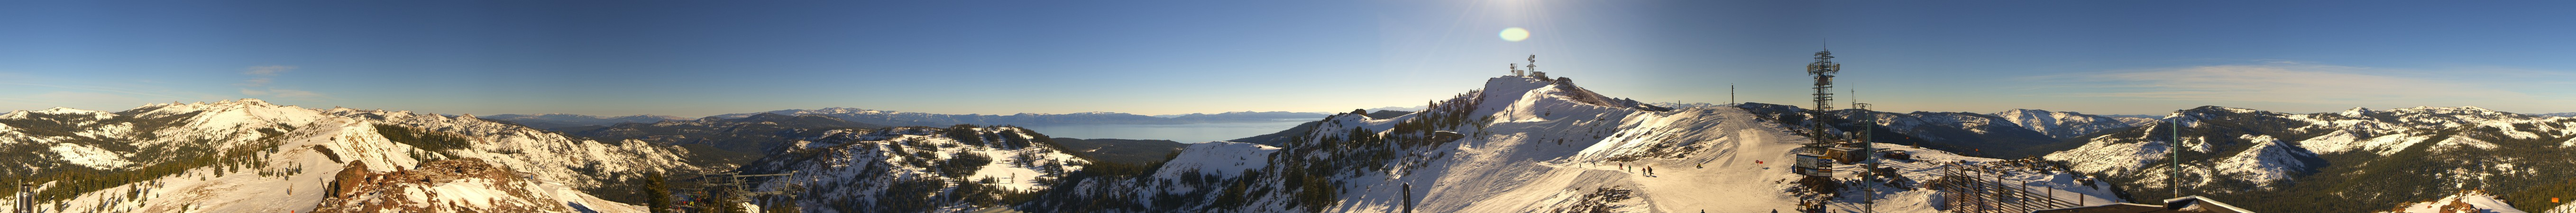
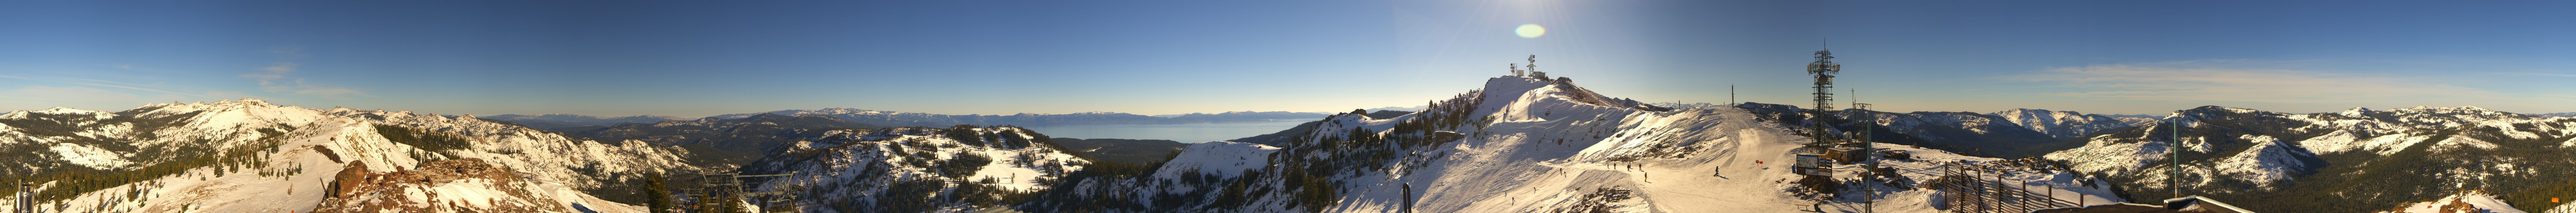
bug fixes and add gitignore

diff --git a/tahoe/index.html b/tahoe/index.html
@@ -1,17 +1,20 @@
-<!DOCTYPE html>
+<!DOCTYPEhtml>
+<!-- <html manifest=".appcache"> -->
 <html>
- <head>
-  <meta charset="utf-8"/>
-  <title>
-   Squaw&amp;Alpine;
-  </title>
-  <meta content="yes" name="apple-mobile-web-app-capable"/>
-  <meta content="transparent" name="apple-mobile-web-app-status-bar-style"/>
-  <link href="favicons/apple-touch-icon-76x76.png" rel="apple-touch-icon-precomposed" sizes="76x76"/>
-  <link href="favicons/apple-touch-icon-180x180.png" rel="apple-touch-icon-precomposed" sizes="120x120"/>
-  <link href="favicons/apple-touch-icon-152x152.png" rel="apple-touch-icon-precomposed" sizes="152x152"/>
-  <style media="screen">
-   iframe {
+
+<head>
+    <metacharset="utf-8" />
+
+    <title>Squaw &amp; Alpine</title>
+
+    <meta content="yes" name="apple-mobile-web-app-capable" />
+    <meta content="transparent" name="apple-mobile-web-app-status-bar-style" />
+    <link href="favicons/apple-touch-icon-76x76.png" rel="apple-touch-icon-precomposed" sizes="76x76" />
+    <link href="favicons/apple-touch-icon-180x180.png" rel="apple-touch-icon-precomposed" sizes="120x120" />
+    <link href="favicons/apple-touch-icon-152x152.png" rel="apple-touch-icon-precomposed" sizes="152x152" />
+
+    <style media="screen">
+        iframe {
             border: none;
             width: 100%;
             height: 500px;
@@ -27,54 +30,44 @@
             font-size: 40pt;
             border-color: black;
         }
-  </style>
- </head>
- <body>
-  <div id="weather">
-  </div>
-  <div id="photos">
-   <h2>
-    Squaw 360
-   </h2>
-   <div class="rotate-image-wrapper">
-    <img class="rotate-image" src="img/squaw360.jpg"/>
-   </div>
-   <h2>
-    Alpine 360
-   </h2>
-   <div class="rotate-image-wrapper">
-    <img class="rotate-image" src="img/alpine360.jpg"/>
-   </div>
-   <h2>
-    Squaw High
-   </h2>
-   <img src="img/squawHigh.jpg" style="width: 100%"/>
-   <h2>
-    Squaw Base
-   </h2>
-   <img src="img/squawBase.jpg" style="width: 100%"/>
-   <h2>
-    Alpine Base
-   </h2>
-   <img src="img/alpineBase.jpg" style="width: 100%"/>
-  </div>
-  <div id="lifts">
-    <h2>
-     Squaw
-    </h2>
-    <img src="img/squawMap.jpg" style="width: 100%"/>
-    <h2>
-     Alpine
-    </h2>
-    <img src="img/alpineMap.jpg" style="width: 100%"/>
-   </img>
-  </div>
-  <script src="jquery.min.js">
-  </script>
-  <script>
-   function loadIframe(self, map) {
+    </style>
+</head>
+
+<body>
+    <div id="lifts">
+        <!-- TODO: add lifts status -->
+        <h2>Squaw</h2>
+        <img src="img/squawMap.jpg" style="width:100%" />
+        <h2>Alpine</h2>
+        <img src="img/alpineMap.jpg" style="width:100%" />
+    </div>
+
+    <div id="photos">
+        <h2>Squaw 360</h2>
+        <div class="rotate-image-wrapper">
+            <img class="rotate-image" src="img/squaw360.jpg" />
+        </div>
+
+        <h2>Alpine 360</h2>
+        <div class="rotate-image-wrapper">
+            <img class="rotate-image" src="img/alpine360.jpg" />
+        </div>
+
+        <h2>Squaw High</h2>
+        <img src="img/squawHigh.jpg" style="width:100%" />
+        <h2>Squaw Base</h2>
+        <img src="img/squawBase.jpg" style="width:100%" />
+        <h2>Alpine Base</h2>
+        <img src="img/alpineBase.jpg" style="width:100%" />
+    </div>
+    
+    
+    <script src="jquery.min.js"></script>
+    <script>
+        function loadIframe(self, map) {
             $.get(map, res => $(self).after(res));
         }
-  </script>
- </body>
+    </script>
+</body>
+
 </html>

diff --git a/tahoe/main.py b/tahoe/main.py
@@ -72,18 +72,18 @@ def savePhoto(camera, name):
     hourMinute = photoSoup.find('table').contents[-4].contents[1].contents[0].string
     
     # save photo
-    urllib.urlretrieve('http://images.prismcam.com/cams/' + camera + dt + hourMinute + '360.jpg', 'img/' + name + ".jpg")
+    urllib.urlretrieve('http://images.prismcam.com/cams/' + camera + dt + hourMinute + '720.jpg', 'img/' + name + ".jpg")
 
 
 def getPhotoData():
-    savePhoto('00016', 'squawHigh')
-    savePhoto('00017', 'squawBase')
-    savePhoto('00019', 'alpineBase')
+    # savePhoto('00016', 'squawHigh')
+    # savePhoto('00017', 'squawBase')
+    # savePhoto('00019', 'alpineBase')
 
     
-    urllib.URLopener.version = 'Mozilla/5.0 (Macintosh; Intel Mac OS X 10_12_0) AppleWebKit/537.36 (KHTML, like Gecko) Chrome/54.0.2840.98 Safari/537.36'
+    urllib.URLopener.version = 'Mozilla/5.0'
     opener = urllib2.build_opener()
-    opener.addheaders = [('User-Agent', 'Mozilla/5.0 (Macintosh; Intel Mac OS X 10_12_0) AppleWebKit/537.36 (KHTML, like Gecko) Chrome/54.0.2840.98 Safari/537.36')]
+    opener.addheaders = [('User-Agent', 'Mozilla/5.0')]
     
     res = opener.open('http://backend.roundshot.com/cams/249/medium')
     urllib.urlretrieve(res.geturl(), "img/squaw360.jpg")
@@ -97,18 +97,6 @@ def getPhotoData():
 
 def main():
     getPhotoData()
-    # indexSoup = BeautifulSoup(open('index.html'), 'html.parser')
-    # photosDiv = indexSoup.find(id='photos')
-    # photos = getPhotoData()
-    #
-    # photosDiv.find_all('img')[2]['src'] = photos['squawHigh']
-    # photosDiv.find_all('img')[3]['src'] = photos['squawBase']
-    # photosDiv.find_all('img')[4]['src'] = photos['alpineBase']
-    #
-    # f = open('index.html', 'w')
-    # f.write(indexSoup.prettify())
-    # f.close()
-
 
 
 main()
